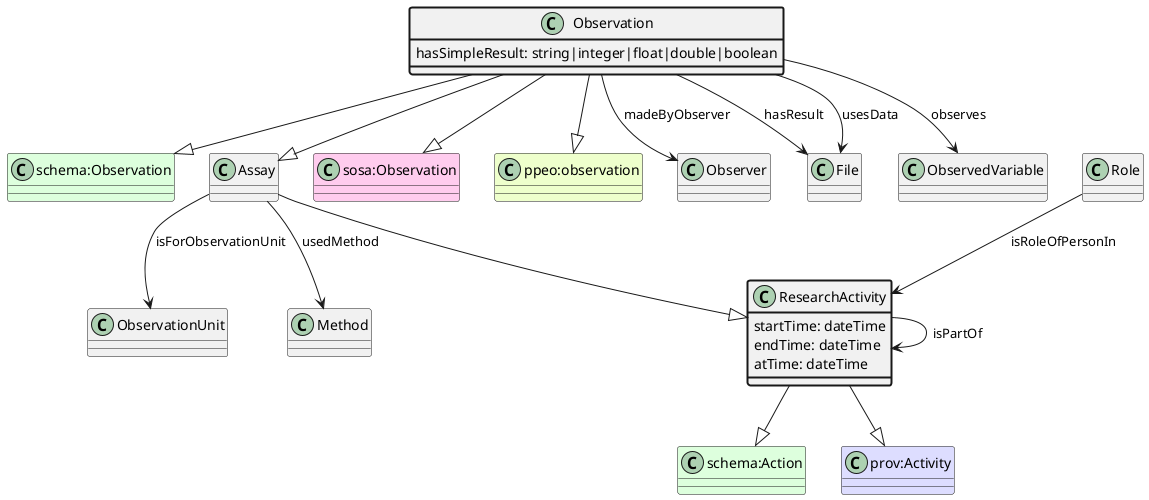
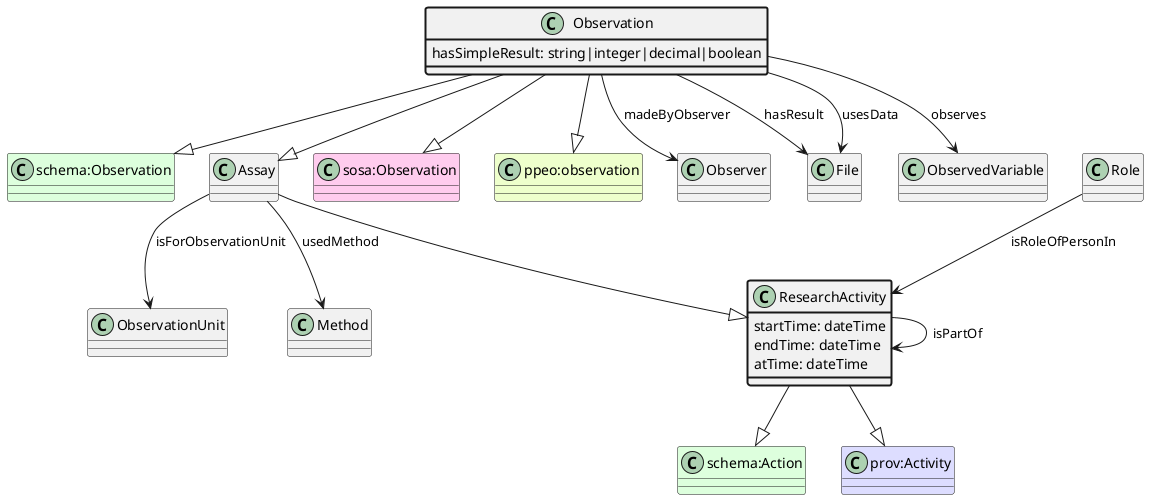
xsd:decimal

Changed region(s): [[0.3351, 0.06, 0.7006, 0.18], [0.6701, 0.0, 0.7006, 0.03]]

diff --git a/appn-schema.html b/appn-schema.html
@@ -136,9 +136,7 @@
         <div class="description">Identifies a discrete value received as a data output from an Observation or Control assay.<br/><b>Superproperties</b>:<br/>&nbsp;&nbsp;&nbsp;&nbsp;<a href="http://www.w3.org/ns/sosa/hasSimpleResult">http://www.w3.org/ns/sosa/hasSimpleResult</a></div>
         <div class="property">Control <b>hasSimpleResult</b> <a href="http://www.w3.org/2001/XMLSchema#integer">http://www.w3.org/2001/XMLSchema#integer</a></div>
         <div class="description">Identifies a discrete value received as a data output from an Observation or Control assay.<br/><b>Superproperties</b>:<br/>&nbsp;&nbsp;&nbsp;&nbsp;<a href="http://www.w3.org/ns/sosa/hasSimpleResult">http://www.w3.org/ns/sosa/hasSimpleResult</a></div>
-        <div class="property">Control <b>hasSimpleResult</b> <a href="http://www.w3.org/2001/XMLSchema#float">http://www.w3.org/2001/XMLSchema#float</a></div>
-        <div class="description">Identifies a discrete value received as a data output from an Observation or Control assay.<br/><b>Superproperties</b>:<br/>&nbsp;&nbsp;&nbsp;&nbsp;<a href="http://www.w3.org/ns/sosa/hasSimpleResult">http://www.w3.org/ns/sosa/hasSimpleResult</a></div>
-        <div class="property">Control <b>hasSimpleResult</b> <a href="http://www.w3.org/2001/XMLSchema#double">http://www.w3.org/2001/XMLSchema#double</a></div>
+        <div class="property">Control <b>hasSimpleResult</b> <a href="http://www.w3.org/2001/XMLSchema#decimal">http://www.w3.org/2001/XMLSchema#decimal</a></div>
         <div class="description">Identifies a discrete value received as a data output from an Observation or Control assay.<br/><b>Superproperties</b>:<br/>&nbsp;&nbsp;&nbsp;&nbsp;<a href="http://www.w3.org/ns/sosa/hasSimpleResult">http://www.w3.org/ns/sosa/hasSimpleResult</a></div>
         <div class="property">Control <b>hasSimpleResult</b> <a href="http://www.w3.org/2001/XMLSchema#boolean">http://www.w3.org/2001/XMLSchema#boolean</a></div>
         <div class="description">Identifies a discrete value received as a data output from an Observation or Control assay.<br/><b>Superproperties</b>:<br/>&nbsp;&nbsp;&nbsp;&nbsp;<a href="http://www.w3.org/ns/sosa/hasSimpleResult">http://www.w3.org/ns/sosa/hasSimpleResult</a></div>
@@ -344,9 +342,7 @@
         <div class="description">Identifies a discrete value received as a data output from an Observation or Control assay.<br/><b>Superproperties</b>:<br/>&nbsp;&nbsp;&nbsp;&nbsp;<a href="http://www.w3.org/ns/sosa/hasSimpleResult">http://www.w3.org/ns/sosa/hasSimpleResult</a></div>
         <div class="property">Observation <b>hasSimpleResult</b> <a href="http://www.w3.org/2001/XMLSchema#integer">http://www.w3.org/2001/XMLSchema#integer</a></div>
         <div class="description">Identifies a discrete value received as a data output from an Observation or Control assay.<br/><b>Superproperties</b>:<br/>&nbsp;&nbsp;&nbsp;&nbsp;<a href="http://www.w3.org/ns/sosa/hasSimpleResult">http://www.w3.org/ns/sosa/hasSimpleResult</a></div>
-        <div class="property">Observation <b>hasSimpleResult</b> <a href="http://www.w3.org/2001/XMLSchema#float">http://www.w3.org/2001/XMLSchema#float</a></div>
-        <div class="description">Identifies a discrete value received as a data output from an Observation or Control assay.<br/><b>Superproperties</b>:<br/>&nbsp;&nbsp;&nbsp;&nbsp;<a href="http://www.w3.org/ns/sosa/hasSimpleResult">http://www.w3.org/ns/sosa/hasSimpleResult</a></div>
-        <div class="property">Observation <b>hasSimpleResult</b> <a href="http://www.w3.org/2001/XMLSchema#double">http://www.w3.org/2001/XMLSchema#double</a></div>
+        <div class="property">Observation <b>hasSimpleResult</b> <a href="http://www.w3.org/2001/XMLSchema#decimal">http://www.w3.org/2001/XMLSchema#decimal</a></div>
         <div class="description">Identifies a discrete value received as a data output from an Observation or Control assay.<br/><b>Superproperties</b>:<br/>&nbsp;&nbsp;&nbsp;&nbsp;<a href="http://www.w3.org/ns/sosa/hasSimpleResult">http://www.w3.org/ns/sosa/hasSimpleResult</a></div>
         <div class="property">Observation <b>hasSimpleResult</b> <a href="http://www.w3.org/2001/XMLSchema#boolean">http://www.w3.org/2001/XMLSchema#boolean</a></div>
         <div class="description">Identifies a discrete value received as a data output from an Observation or Control assay.<br/><b>Superproperties</b>:<br/>&nbsp;&nbsp;&nbsp;&nbsp;<a href="http://www.w3.org/ns/sosa/hasSimpleResult">http://www.w3.org/ns/sosa/hasSimpleResult</a></div>
@@ -575,13 +571,13 @@
         <div class="parent"><a href="http://purl.org/ppeo/PPEO.owl#GPS_location">http://purl.org/ppeo/PPEO.owl#GPS_location</a></div>
         <div class="parent"><a href="http://schema.org/Place">http://schema.org/Place</a></div>
         <h3>Properties</h3>
-        <div class="property" id="hasLatitude">SpatialLocation <b>hasLatitude</b> <a href="http://www.w3.org/2001/XMLSchema#float">http://www.w3.org/2001/XMLSchema#float</a></div>
+        <div class="property" id="hasLatitude">SpatialLocation <b>hasLatitude</b> <a href="http://www.w3.org/2001/XMLSchema#decimal">http://www.w3.org/2001/XMLSchema#decimal</a></div>
         <div class="description">Decimal latitude for a SpatialLocation<br/><b>Superproperties</b>:<br/>&nbsp;&nbsp;&nbsp;&nbsp;<a href="http://purl.org/ppeo/PPEO.owl#hasLatitude">http://purl.org/ppeo/PPEO.owl#hasLatitude</a><br/>&nbsp;&nbsp;&nbsp;&nbsp;<a href="http://schema.org/latitude">http://schema.org/latitude</a></div>
-        <div class="property" id="hasLongitude">SpatialLocation <b>hasLongitude</b> <a href="http://www.w3.org/2001/XMLSchema#float">http://www.w3.org/2001/XMLSchema#float</a></div>
+        <div class="property" id="hasLongitude">SpatialLocation <b>hasLongitude</b> <a href="http://www.w3.org/2001/XMLSchema#decimal">http://www.w3.org/2001/XMLSchema#decimal</a></div>
         <div class="description">Decimal longitude for a SpatialLocation<br/><b>Superproperties</b>:<br/>&nbsp;&nbsp;&nbsp;&nbsp;<a href="http://purl.org/ppeo/PPEO.owl#hasLongitude">http://purl.org/ppeo/PPEO.owl#hasLongitude</a><br/>&nbsp;&nbsp;&nbsp;&nbsp;<a href="http://schema.org/longitude">http://schema.org/longitude</a></div>
-        <div class="property" id="hasUncertainty">SpatialLocation <b>hasUncertainty</b> <a href="http://www.w3.org/2001/XMLSchema#float">http://www.w3.org/2001/XMLSchema#float</a></div>
+        <div class="property" id="hasUncertainty">SpatialLocation <b>hasUncertainty</b> <a href="http://www.w3.org/2001/XMLSchema#decimal">http://www.w3.org/2001/XMLSchema#decimal</a></div>
         <div class="description">Uncertainty in meters for coordinates<br/><b>Superproperties</b>:<br/>&nbsp;&nbsp;&nbsp;&nbsp;<a href="http://purl.org/ppeo/PPEO.owl#hasUncertainty">http://purl.org/ppeo/PPEO.owl#hasUncertainty</a></div>
-        <div class="property" id="hasAltitude">SpatialLocation <b>hasAltitude</b> <a href="http://www.w3.org/2001/XMLSchema#float">http://www.w3.org/2001/XMLSchema#float</a></div>
+        <div class="property" id="hasAltitude">SpatialLocation <b>hasAltitude</b> <a href="http://www.w3.org/2001/XMLSchema#decimal">http://www.w3.org/2001/XMLSchema#decimal</a></div>
         <div class="description">Altitude for a SpatialLocation<br/><b>Superproperties</b>:<br/>&nbsp;&nbsp;&nbsp;&nbsp;<a href="http://purl.org/ppeo/PPEO.owl#hasAltitude">http://purl.org/ppeo/PPEO.owl#hasAltitude</a></div>
         <div class="property" id="hasCountry">SpatialLocation <b>hasCountry</b> <a href="#Country">Country</a></div>
         <div class="description">Country for a SpatialLocation<br/><b>Superproperties</b>:<br/>&nbsp;&nbsp;&nbsp;&nbsp;<a href="http://purl.org/ppeo/PPEO.owl#hasCountry">http://purl.org/ppeo/PPEO.owl#hasCountry</a></div>
@@ -626,7 +622,7 @@
         <div class="description">Identifies a Substance or SubstanceAmount included in the current Substance.</div>
         <div class="property" id="isOfSubstance">SubstanceAmount <b>isOfSubstance</b> <a href="#Substance">Substance</a></div>
         <div class="description">Identifies the Substance associated with a SubstanceAmount. This represents the biological or chemical substance applied to the ObservationUnit by a Treatment.</div>
-        <div class="property" id="amount">SubstanceAmount <b>amount</b> <a href="http://www.w3.org/2001/XMLSchema#float">http://www.w3.org/2001/XMLSchema#float</a></div>
+        <div class="property" id="amount">SubstanceAmount <b>amount</b> <a href="http://www.w3.org/2001/XMLSchema#decimal">http://www.w3.org/2001/XMLSchema#decimal</a></div>
         <div class="description">Identifies the amount of a Substance associated with a SubstanceAmount according to the associated Scale.</div>
         <div class="property" id="hasScale">SubstanceAmount <b>hasScale</b> <a href="#Scale">Scale</a></div>
         <div class="description">Identifies the Scale associated with a Variable.<br/><b>Superproperties</b>:<br/>&nbsp;&nbsp;&nbsp;&nbsp;<a href="http://purl.org/ppeo/PPEO.owl#hasScale">http://purl.org/ppeo/PPEO.owl#hasScale</a></div>
@@ -687,9 +683,7 @@
         <div class="description">Specifies the default value for a variable.</div>
         <div class="property">Variable <b>hasDefaultValue</b> <a href="http://www.w3.org/2001/XMLSchema#integer">http://www.w3.org/2001/XMLSchema#integer</a></div>
         <div class="description">Specifies the default value for a variable.</div>
-        <div class="property">Variable <b>hasDefaultValue</b> <a href="http://www.w3.org/2001/XMLSchema#float">http://www.w3.org/2001/XMLSchema#float</a></div>
-        <div class="description">Specifies the default value for a variable.</div>
-        <div class="property">Variable <b>hasDefaultValue</b> <a href="http://www.w3.org/2001/XMLSchema#double">http://www.w3.org/2001/XMLSchema#double</a></div>
+        <div class="property">Variable <b>hasDefaultValue</b> <a href="http://www.w3.org/2001/XMLSchema#decimal">http://www.w3.org/2001/XMLSchema#decimal</a></div>
         <div class="description">Specifies the default value for a variable.</div>
         <div class="property">Variable <b>hasDefaultValue</b> <a href="http://www.w3.org/2001/XMLSchema#boolean">http://www.w3.org/2001/XMLSchema#boolean</a></div>
         <div class="description">Specifies the default value for a variable.</div>
@@ -716,25 +710,19 @@
         <div class="description">Specifies the row for an XYZLocation.</div>
         <div class="property">XYZLocation <b>row</b> <a href="http://www.w3.org/2001/XMLSchema#integer">http://www.w3.org/2001/XMLSchema#integer</a></div>
         <div class="description">Specifies the row for an XYZLocation.</div>
-        <div class="property">XYZLocation <b>row</b> <a href="http://www.w3.org/2001/XMLSchema#float">http://www.w3.org/2001/XMLSchema#float</a></div>
-        <div class="description">Specifies the row for an XYZLocation.</div>
-        <div class="property">XYZLocation <b>row</b> <a href="http://www.w3.org/2001/XMLSchema#double">http://www.w3.org/2001/XMLSchema#double</a></div>
+        <div class="property">XYZLocation <b>row</b> <a href="http://www.w3.org/2001/XMLSchema#decimal">http://www.w3.org/2001/XMLSchema#decimal</a></div>
         <div class="description">Specifies the row for an XYZLocation.</div>
         <div class="property" id="column">XYZLocation <b>column</b> <a href="http://www.w3.org/2001/XMLSchema#string">http://www.w3.org/2001/XMLSchema#string</a></div>
         <div class="description">Specifies the column for an XYZLocation.</div>
         <div class="property">XYZLocation <b>column</b> <a href="http://www.w3.org/2001/XMLSchema#integer">http://www.w3.org/2001/XMLSchema#integer</a></div>
         <div class="description">Specifies the column for an XYZLocation.</div>
-        <div class="property">XYZLocation <b>column</b> <a href="http://www.w3.org/2001/XMLSchema#float">http://www.w3.org/2001/XMLSchema#float</a></div>
-        <div class="description">Specifies the column for an XYZLocation.</div>
-        <div class="property">XYZLocation <b>column</b> <a href="http://www.w3.org/2001/XMLSchema#double">http://www.w3.org/2001/XMLSchema#double</a></div>
+        <div class="property">XYZLocation <b>column</b> <a href="http://www.w3.org/2001/XMLSchema#decimal">http://www.w3.org/2001/XMLSchema#decimal</a></div>
         <div class="description">Specifies the column for an XYZLocation.</div>
         <div class="property" id="level">XYZLocation <b>level</b> <a href="http://www.w3.org/2001/XMLSchema#string">http://www.w3.org/2001/XMLSchema#string</a></div>
         <div class="description">Specifies the level for an XYZLocation in a three-dimensional configuration.</div>
         <div class="property">XYZLocation <b>level</b> <a href="http://www.w3.org/2001/XMLSchema#integer">http://www.w3.org/2001/XMLSchema#integer</a></div>
         <div class="description">Specifies the level for an XYZLocation in a three-dimensional configuration.</div>
-        <div class="property">XYZLocation <b>level</b> <a href="http://www.w3.org/2001/XMLSchema#float">http://www.w3.org/2001/XMLSchema#float</a></div>
-        <div class="description">Specifies the level for an XYZLocation in a three-dimensional configuration.</div>
-        <div class="property">XYZLocation <b>level</b> <a href="http://www.w3.org/2001/XMLSchema#double">http://www.w3.org/2001/XMLSchema#double</a></div>
+        <div class="property">XYZLocation <b>level</b> <a href="http://www.w3.org/2001/XMLSchema#decimal">http://www.w3.org/2001/XMLSchema#decimal</a></div>
         <div class="description">Specifies the level for an XYZLocation in a three-dimensional configuration.</div>
     </body>
 </html>

diff --git a/docs/appn_XYZLocation.md b/docs/appn_XYZLocation.md
@@ -14,25 +14,19 @@ A location defined using an appropriate local spatial geometry in three dimensio
     * Specifies the row for an XYZLocation.
 * appn:XYZLocation **appn:row** [xsd:integer](http://www.w3.org/2001/XMLSchema#integer)
     * Specifies the row for an XYZLocation.
-* appn:XYZLocation **appn:row** [xsd:float](http://www.w3.org/2001/XMLSchema#float)
-    * Specifies the row for an XYZLocation.
-* appn:XYZLocation **appn:row** [xsd:double](http://www.w3.org/2001/XMLSchema#double)
+* appn:XYZLocation **appn:row** [xsd:decimal](http://www.w3.org/2001/XMLSchema#decimal)
     * Specifies the row for an XYZLocation.
 * appn:XYZLocation **appn:column** [xsd:string](http://www.w3.org/2001/XMLSchema#string)
     * Specifies the column for an XYZLocation.
 * appn:XYZLocation **appn:column** [xsd:integer](http://www.w3.org/2001/XMLSchema#integer)
     * Specifies the column for an XYZLocation.
-* appn:XYZLocation **appn:column** [xsd:float](http://www.w3.org/2001/XMLSchema#float)
-    * Specifies the column for an XYZLocation.
-* appn:XYZLocation **appn:column** [xsd:double](http://www.w3.org/2001/XMLSchema#double)
+* appn:XYZLocation **appn:column** [xsd:decimal](http://www.w3.org/2001/XMLSchema#decimal)
     * Specifies the column for an XYZLocation.
 * appn:XYZLocation **appn:level** [xsd:string](http://www.w3.org/2001/XMLSchema#string)
     * Specifies the level for an XYZLocation in a three-dimensional configuration.
 * appn:XYZLocation **appn:level** [xsd:integer](http://www.w3.org/2001/XMLSchema#integer)
     * Specifies the level for an XYZLocation in a three-dimensional configuration.
-* appn:XYZLocation **appn:level** [xsd:float](http://www.w3.org/2001/XMLSchema#float)
-    * Specifies the level for an XYZLocation in a three-dimensional configuration.
-* appn:XYZLocation **appn:level** [xsd:double](http://www.w3.org/2001/XMLSchema#double)
+* appn:XYZLocation **appn:level** [xsd:decimal](http://www.w3.org/2001/XMLSchema#decimal)
     * Specifies the level for an XYZLocation in a three-dimensional configuration.
 * [appn:Location](appn_Location.md) **appn:isLocationFor** [appn:ObservationUnit](appn_ObservationUnit.md)
     * Specifies the ObservationUnit to which a Location relates.

diff --git a/docs/appn_SubstanceAmount.md b/docs/appn_SubstanceAmount.md
@@ -21,7 +21,7 @@ A Variable (representation of a quantity using a defined Scale) for a Substance 
     * Identifies a Substance or SubstanceAmount included in the current Substance.
 * appn:SubstanceAmount **appn:isOfSubstance** [appn:Substance](appn_Substance.md)
     * Identifies the Substance associated with a SubstanceAmount. This represents the biological or chemical substance applied to the ObservationUnit by a Treatment.
-* appn:SubstanceAmount **appn:amount** [xsd:float](http://www.w3.org/2001/XMLSchema#float)
+* appn:SubstanceAmount **appn:amount** [xsd:decimal](http://www.w3.org/2001/XMLSchema#decimal)
     * Identifies the amount of a Substance associated with a SubstanceAmount according to the associated Scale.
 * appn:SubstanceAmount **appn:hasScale** [appn:Scale](appn_Scale.md)
     * Identifies the Scale associated with a Variable.
@@ -29,9 +29,7 @@ A Variable (representation of a quantity using a defined Scale) for a Substance 
     * Specifies the default value for a variable.
 * [appn:Variable](appn_Variable.md) **appn:hasDefaultValue** [xsd:integer](http://www.w3.org/2001/XMLSchema#integer)
     * Specifies the default value for a variable.
-* [appn:Variable](appn_Variable.md) **appn:hasDefaultValue** [xsd:float](http://www.w3.org/2001/XMLSchema#float)
-    * Specifies the default value for a variable.
-* [appn:Variable](appn_Variable.md) **appn:hasDefaultValue** [xsd:double](http://www.w3.org/2001/XMLSchema#double)
+* [appn:Variable](appn_Variable.md) **appn:hasDefaultValue** [xsd:decimal](http://www.w3.org/2001/XMLSchema#decimal)
     * Specifies the default value for a variable.
 * [appn:Variable](appn_Variable.md) **appn:hasDefaultValue** [xsd:boolean](http://www.w3.org/2001/XMLSchema#boolean)
     * Specifies the default value for a variable.

diff --git a/docs/appn_SpatialLocation.md b/docs/appn_SpatialLocation.md
@@ -12,13 +12,13 @@ A location defined with geospatial coordinates.
 * http://purl.org/ppeo/PPEO.owl#GPS_location
 * http://schema.org/Place
 ## Properties
-* appn:SpatialLocation **appn:hasLatitude** [xsd:float](http://www.w3.org/2001/XMLSchema#float)
+* appn:SpatialLocation **appn:hasLatitude** [xsd:decimal](http://www.w3.org/2001/XMLSchema#decimal)
     * Decimal latitude for a SpatialLocation
-* appn:SpatialLocation **appn:hasLongitude** [xsd:float](http://www.w3.org/2001/XMLSchema#float)
+* appn:SpatialLocation **appn:hasLongitude** [xsd:decimal](http://www.w3.org/2001/XMLSchema#decimal)
     * Decimal longitude for a SpatialLocation
-* appn:SpatialLocation **appn:hasUncertainty** [xsd:float](http://www.w3.org/2001/XMLSchema#float)
+* appn:SpatialLocation **appn:hasUncertainty** [xsd:decimal](http://www.w3.org/2001/XMLSchema#decimal)
     * Uncertainty in meters for coordinates
-* appn:SpatialLocation **appn:hasAltitude** [xsd:float](http://www.w3.org/2001/XMLSchema#float)
+* appn:SpatialLocation **appn:hasAltitude** [xsd:decimal](http://www.w3.org/2001/XMLSchema#decimal)
     * Altitude for a SpatialLocation
 * appn:SpatialLocation **appn:hasCountry** [appn:Country](appn_Country.md)
     * Country for a SpatialLocation

diff --git a/docs/appn_Observation.md b/docs/appn_Observation.md
@@ -22,9 +22,7 @@ An Assay that observes or measures properties of an ObservationUnit returning re
     * Identifies a discrete value received as a data output from an Observation or Control assay.
 * appn:Observation **appn:hasSimpleResult** [xsd:integer](http://www.w3.org/2001/XMLSchema#integer)
     * Identifies a discrete value received as a data output from an Observation or Control assay.
-* appn:Observation **appn:hasSimpleResult** [xsd:float](http://www.w3.org/2001/XMLSchema#float)
-    * Identifies a discrete value received as a data output from an Observation or Control assay.
-* appn:Observation **appn:hasSimpleResult** [xsd:double](http://www.w3.org/2001/XMLSchema#double)
+* appn:Observation **appn:hasSimpleResult** [xsd:decimal](http://www.w3.org/2001/XMLSchema#decimal)
     * Identifies a discrete value received as a data output from an Observation or Control assay.
 * appn:Observation **appn:hasSimpleResult** [xsd:boolean](http://www.w3.org/2001/XMLSchema#boolean)
     * Identifies a discrete value received as a data output from an Observation or Control assay.

diff --git a/docs/appn_Control.md b/docs/appn_Control.md
@@ -20,9 +20,7 @@ An Assay that modifies a property of an ObservationUnit.
     * Identifies a discrete value received as a data output from an Observation or Control assay.
 * appn:Control **appn:hasSimpleResult** [xsd:integer](http://www.w3.org/2001/XMLSchema#integer)
     * Identifies a discrete value received as a data output from an Observation or Control assay.
-* appn:Control **appn:hasSimpleResult** [xsd:float](http://www.w3.org/2001/XMLSchema#float)
-    * Identifies a discrete value received as a data output from an Observation or Control assay.
-* appn:Control **appn:hasSimpleResult** [xsd:double](http://www.w3.org/2001/XMLSchema#double)
+* appn:Control **appn:hasSimpleResult** [xsd:decimal](http://www.w3.org/2001/XMLSchema#decimal)
     * Identifies a discrete value received as a data output from an Observation or Control assay.
 * appn:Control **appn:hasSimpleResult** [xsd:boolean](http://www.w3.org/2001/XMLSchema#boolean)
     * Identifies a discrete value received as a data output from an Observation or Control assay.

diff --git a/docs/appn_ControlledVariable.md b/docs/appn_ControlledVariable.md
@@ -24,9 +24,7 @@ A Variable (representation of a Trait using a defined Scale) controlled or modif
     * Specifies the default value for a variable.
 * [appn:Variable](appn_Variable.md) **appn:hasDefaultValue** [xsd:integer](http://www.w3.org/2001/XMLSchema#integer)
     * Specifies the default value for a variable.
-* [appn:Variable](appn_Variable.md) **appn:hasDefaultValue** [xsd:float](http://www.w3.org/2001/XMLSchema#float)
-    * Specifies the default value for a variable.
-* [appn:Variable](appn_Variable.md) **appn:hasDefaultValue** [xsd:double](http://www.w3.org/2001/XMLSchema#double)
+* [appn:Variable](appn_Variable.md) **appn:hasDefaultValue** [xsd:decimal](http://www.w3.org/2001/XMLSchema#decimal)
     * Specifies the default value for a variable.
 * [appn:Variable](appn_Variable.md) **appn:hasDefaultValue** [xsd:boolean](http://www.w3.org/2001/XMLSchema#boolean)
     * Specifies the default value for a variable.

diff --git a/docs/appn_ObservedVariable.md b/docs/appn_ObservedVariable.md
@@ -25,9 +25,7 @@ A Variable (representation of a Trait using a defined Scale) observed or measure
     * Specifies the default value for a variable.
 * [appn:Variable](appn_Variable.md) **appn:hasDefaultValue** [xsd:integer](http://www.w3.org/2001/XMLSchema#integer)
     * Specifies the default value for a variable.
-* [appn:Variable](appn_Variable.md) **appn:hasDefaultValue** [xsd:float](http://www.w3.org/2001/XMLSchema#float)
-    * Specifies the default value for a variable.
-* [appn:Variable](appn_Variable.md) **appn:hasDefaultValue** [xsd:double](http://www.w3.org/2001/XMLSchema#double)
+* [appn:Variable](appn_Variable.md) **appn:hasDefaultValue** [xsd:decimal](http://www.w3.org/2001/XMLSchema#decimal)
     * Specifies the default value for a variable.
 * [appn:Variable](appn_Variable.md) **appn:hasDefaultValue** [xsd:boolean](http://www.w3.org/2001/XMLSchema#boolean)
     * Specifies the default value for a variable.

diff --git a/docs/appn_Variable.md b/docs/appn_Variable.md
@@ -18,9 +18,7 @@ Representation of a Trait using a defined Scale. In the DDI-CDI Variable Cascade
     * Specifies the default value for a variable.
 * appn:Variable **appn:hasDefaultValue** [xsd:integer](http://www.w3.org/2001/XMLSchema#integer)
     * Specifies the default value for a variable.
-* appn:Variable **appn:hasDefaultValue** [xsd:float](http://www.w3.org/2001/XMLSchema#float)
-    * Specifies the default value for a variable.
-* appn:Variable **appn:hasDefaultValue** [xsd:double](http://www.w3.org/2001/XMLSchema#double)
+* appn:Variable **appn:hasDefaultValue** [xsd:decimal](http://www.w3.org/2001/XMLSchema#decimal)
     * Specifies the default value for a variable.
 * appn:Variable **appn:hasDefaultValue** [xsd:boolean](http://www.w3.org/2001/XMLSchema#boolean)
     * Specifies the default value for a variable.
